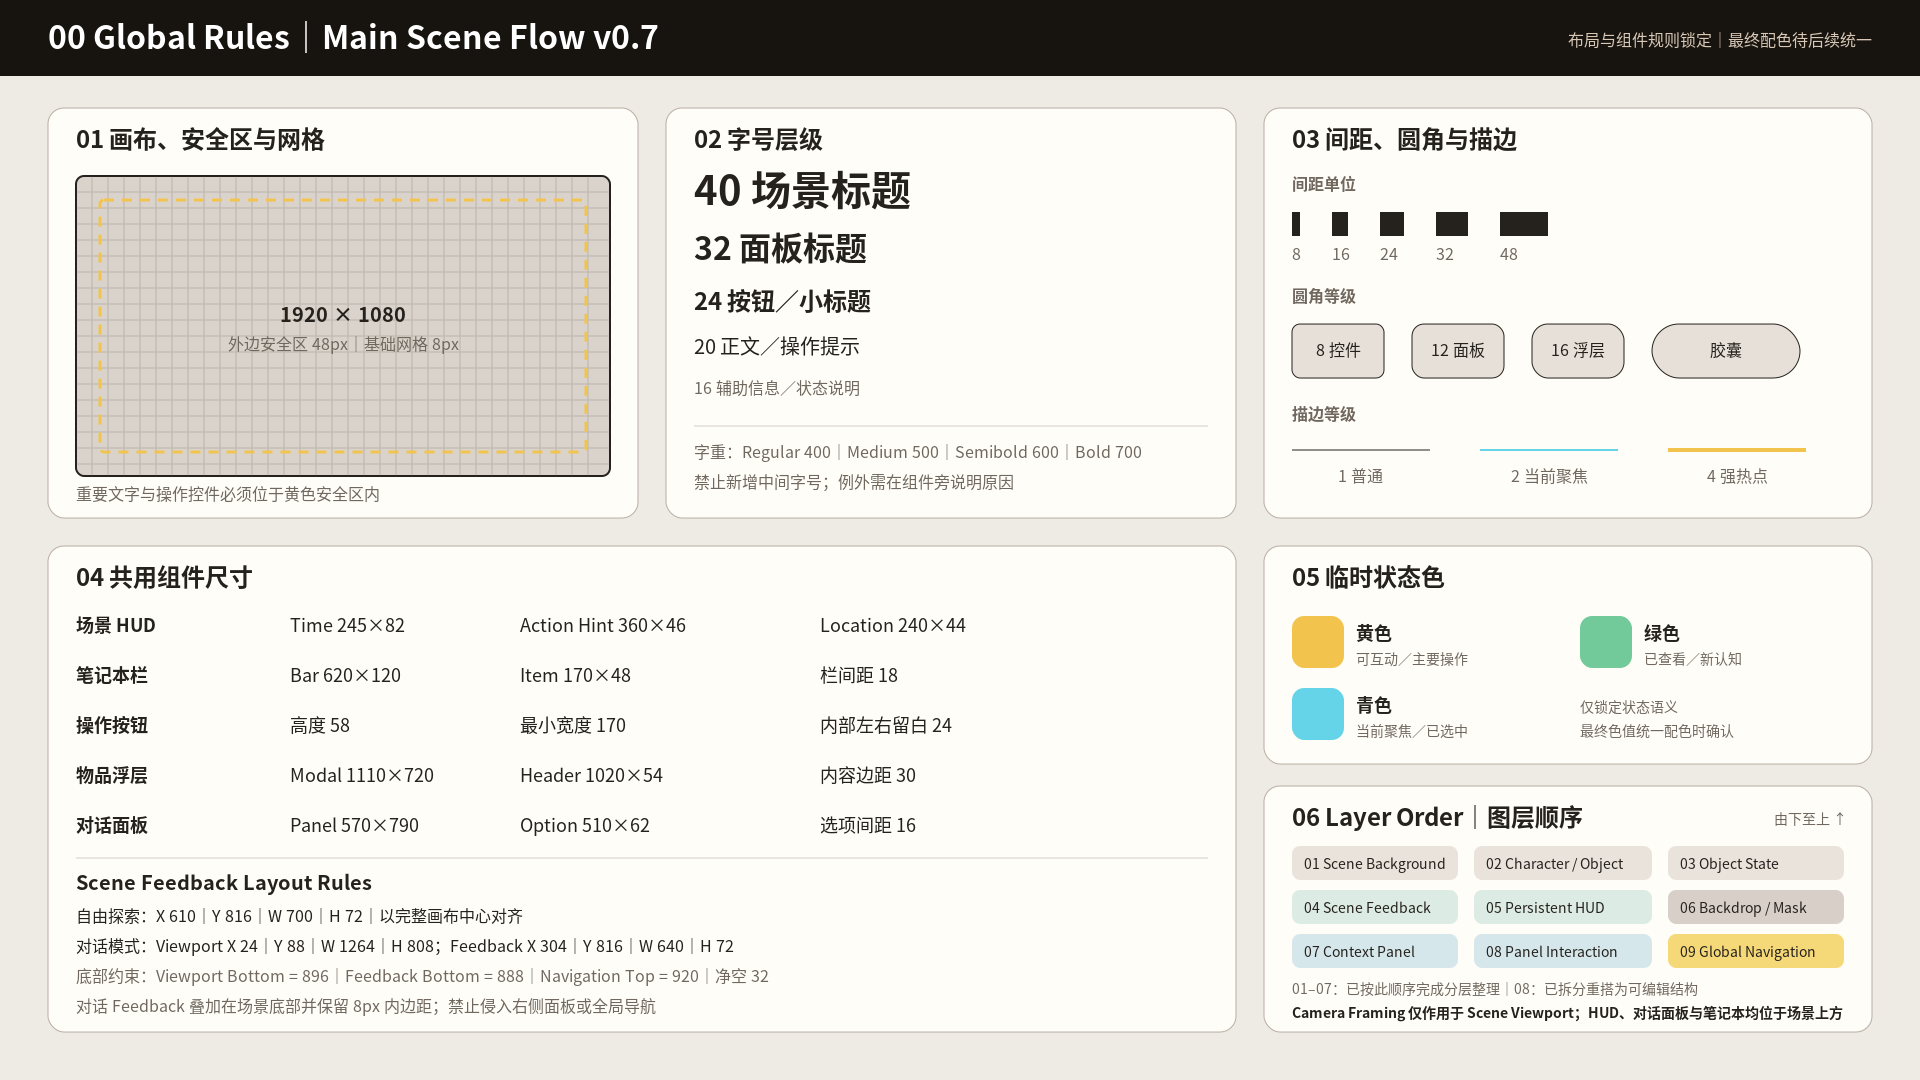
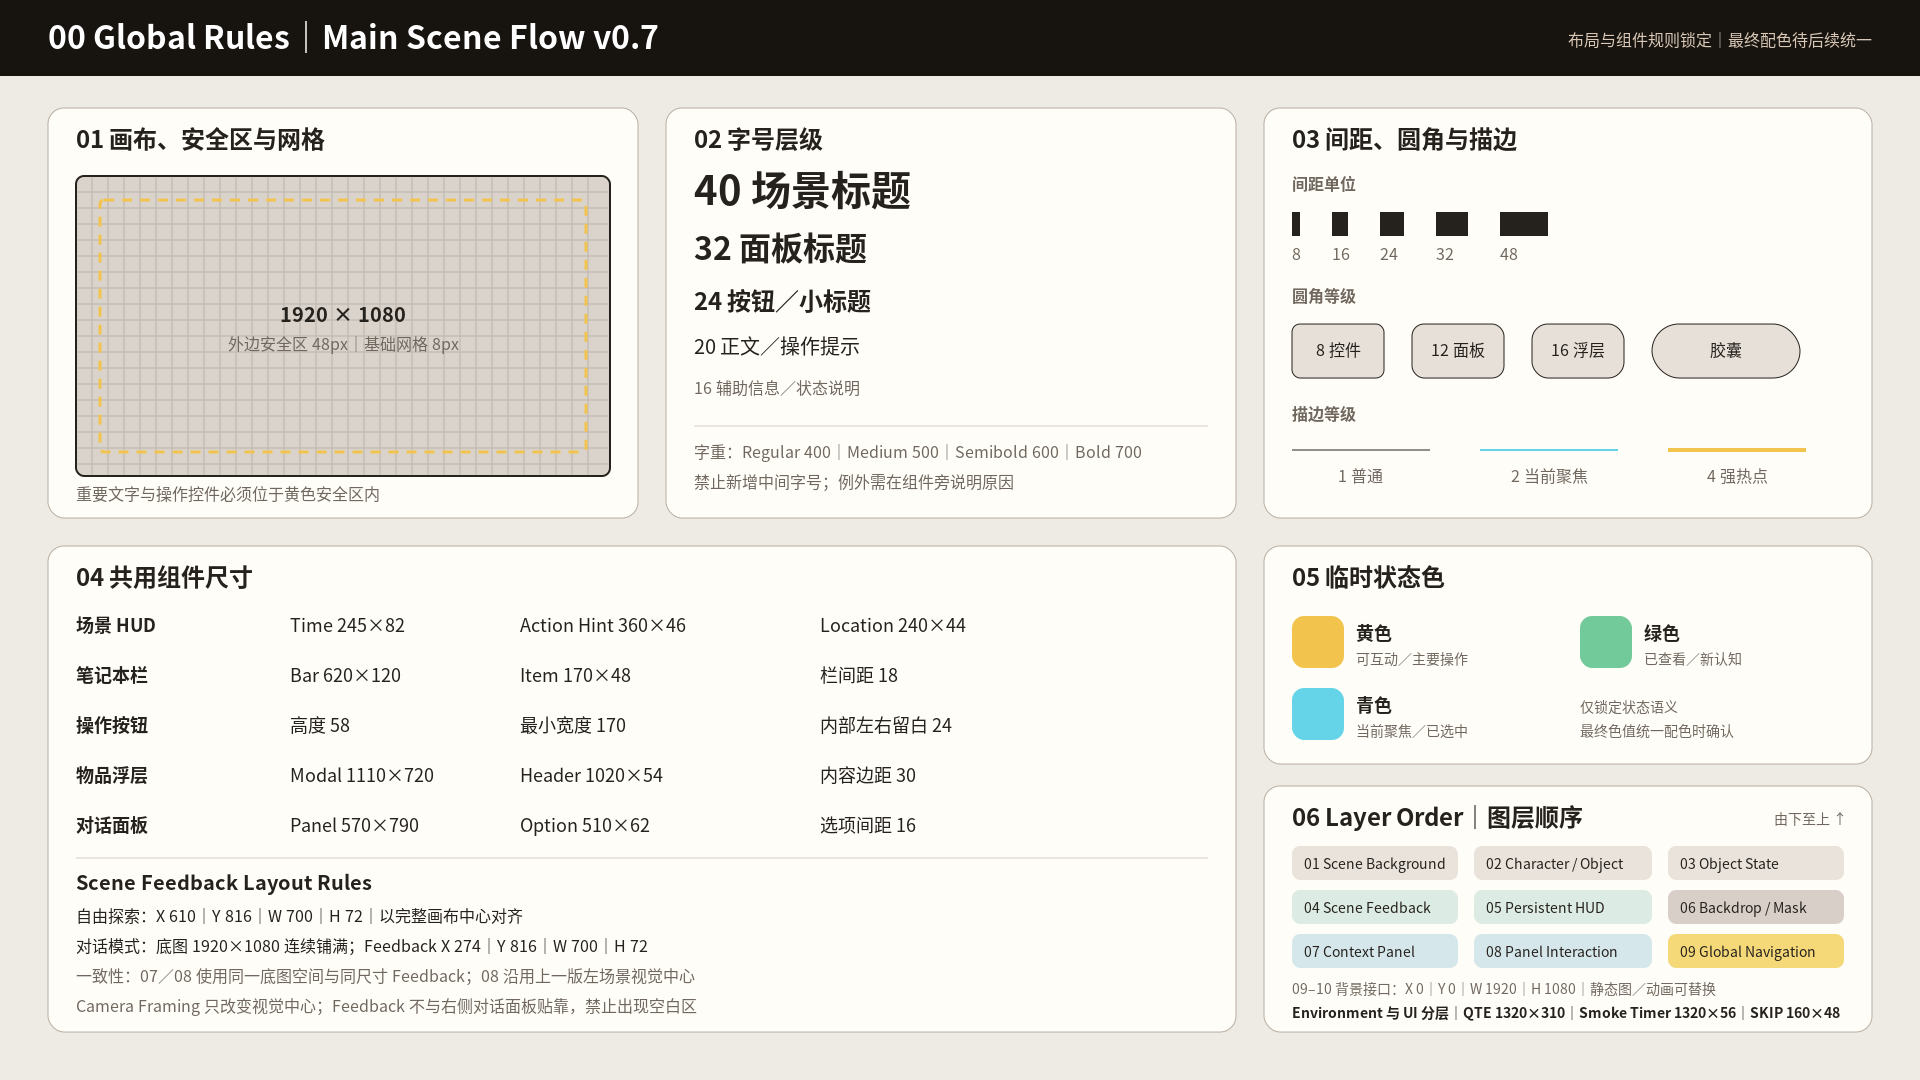
扩展主场景点烟放松流程与场景资源接口

Changed region(s): [[0.0312, 0.8556, 0.4062, 0.9472], [0.6875, 0.8861, 0.9688, 0.9472]]

diff --git a/docs/UI/main-scene/v0.7/global-rules.md b/docs/UI/main-scene/v0.7/global-rules.md
@@ -52,24 +52,29 @@
 | Object / Header | 1020 × 54px |
 | Dialogue / Panel | 570 × 790px |
 | Dialogue / Option | 510 × 62px，选项间距 16px |
+| Smoking QTE / Panel | 1320 × 310px |
+| Smoking QTE / Track | 1080 × 36px |
+| Smoking QTE / Target | 默认 216 × 36px，占轨道 20%（允许 18%–22%） |
+| Smoking / Timer | 1320 × 56px |
+| SKIP | 160 × 48px |
 
 单张页面不得自行缩放同名组件；需要变化时应先更新全局规范。
 
 ### 4.1 Scene Feedback Layout Rules
 
-| 状态 | Scene Viewport | Feedback X | Feedback Y | Feedback W | Feedback H | 对齐基准 |
+| 状态 | Scene Background | Feedback X | Feedback Y | Feedback W | Feedback H | 对齐基准 |
 |---|---|---:|---:|---:|---:|---|
-| 07 自由探索 / After Clue | 全画布 | 610 | 816 | 700 | 72 | 完整画布中心 |
-| 08 对话模式 | `X24 / Y88 / W1264 / H808` | 304 | 816 | 640 | 72 | 左侧 `Scene Viewport` 中心 |
+| 07 自由探索 / After Clue | `1920 × 1080` 全画布 | 610 | 816 | 700 | 72 | 完整画布中心 |
+| 08 对话模式 | `1920 × 1080` 全画布 | 274 | 816 | 700 | 72 | 上一版左场景视觉中心 |
 
 约束规则：
 
-- 对话模式采用用户手动调整后的场景尺寸：`Scene Viewport` 左上角为 `X=24 / Y=88`，宽高为 `1264 × 808px`，可见底边为 `Y=896`。
-- 08 Feedback 叠加于场景底部，底边为 `Y=888`，与 `Scene Viewport` 底边保留 `8px` 内边距。
-- `Global Navigation` 顶边为 `Y=920`，Feedback 与导航之间保留 `32px` 垂直净空。
-- 无侧边面板时以完整画布中心对齐；打开对话面板时以左侧 `Scene Viewport` 为布局基准。
-- 禁止始终使用 1920px 画布中心、手动拉伸 Feedback，或覆盖人物面部、对话选项及全局导航。
-- 普通场景最大宽度为 `700px`；对话场景固定宽度为 `640px`。
+- 07 与 08 必须使用同一套 `1920 × 1080` 场景空间，底图连续铺满画布；对话面板、HUD 与导航叠加在底图上方，未被面板覆盖的区域不得留白。
+- 08 仅通过底图内部的 Camera Framing 调整人物视觉中心，不改变 Scene Background 的画布尺寸和边界。
+- 07 与 08 的 Scene Feedback 使用同一尺寸：`W=700 / H=72`，避免状态切换时产生缩放跳变；位置按各自视觉中心分别对齐。
+- 08 Feedback 中心点沿用上一版左侧场景视觉中心 `X=624`，因此左边界为 `X=274`；右边界为 `X=974`，与 `X=1310` 的 Dialogue Panel 保留 `336px` 水平间距。
+- `Global Navigation` 顶边为 `Y=920`，Feedback 底边为 `Y=888`，两者保留 `32px` 垂直净空。
+- 禁止为适应当前视觉中心缩小底图或 Feedback，也禁止出现空白区、覆盖人物面部、对话选项及全局导航。
 
 ## 5. 临时状态色
 
@@ -108,7 +113,7 @@
 08_D104_Option_Unlocked
 ├─ 01_Scene_Viewport
 │  ├─ Scene_Background
-│  │  └─ Left_Scene_Camera_Framing
+│  │  └─ Dialogue_Scene_Camera_Framing
 │  └─ Character_Relationship
 ├─ 02_Persistent_HUD
 │  ├─ Screen_Title
@@ -125,13 +130,47 @@
    └─ Notebook_Bar
 ```
 
-08 已完成拆分重搭：场景位于独立裁切区域，标题 HUD、时间、操作提示、地点、对话面板和笔记本均为场景上方的独立可编辑图层。原 Camera Framing 与人物关系保持不变，顶部 HUD 遮挡问题已修复。
+08 已完成拆分重搭：场景使用完整 `1920 × 1080` 背景，标题 HUD、时间、操作提示、地点、对话面板和笔记本均为场景上方的独立可编辑图层。Camera Framing 只调整视觉中心，不改变底图边界。
 
-## 8. 当前执行状态
+## 8. 09–10 点烟节点图层规则
+
+```text
+09_Smoking_Relaxation_QTE
+├─ 01_QTE_Background_Viewport
+│  ├─ Environment_Background
+│  └─ Environment_Animation
+├─ 02_Backdrop_Mask
+├─ 03_Narrative_Prompt
+├─ 04_QTE_Track
+├─ 05_Smoke_Timer
+└─ 06_Global_Navigation / SKIP
+
+10_Smoking_FirstPerson_Street
+├─ 01_First_Person_Street_Viewport
+│  ├─ Environment_Background
+│  ├─ Environment_Animation
+│  └─ FirstPerson_Foreground
+├─ 02_Inner_Monologue
+├─ 03_Smoke_Timer
+└─ 04_Global_Navigation / SKIP
+```
+
+执行原则：
+
+- 09 的 QTE 是单次、低压力操作；失败不得使用红色惩罚反馈，也不得要求重试。
+- 09、10 的烟条使用同一位置和尺寸，避免成功切换时跳动。
+- 09 的 `QTE_Background_Viewport` 与 10 的 `First_Person_Street_Viewport` 均固定为 `X0 / Y0 / W1920 / H1080`，作为可替换背景接口。
+- `Environment_Background` 接收按时间加载的静态图；`Environment_Animation` 接收视频、序列帧或 Timeline 动画，二者不得包含 QTE、烟条、独白或 SKIP。
+- 10 的 `FirstPerson_Foreground` 独立承载手部、香烟和烟雾，替换环境动画时不得重做前景 UI。
+- 10 的第一人称街景必须铺满画布；手部、香烟与烟雾属于主观视角前景层。
+- `SKIP` 始终位于右上安全区内，层级高于 QTE、独白和场景。
+
+## 9. 当前执行状态
 
 - [x] 创建并锁定 `00_Global_Rules`
 - [x] 按规则整理 01–07 图层
 - [x] 拆分重搭 08 合成 UI
 - [x] 修复 08 场景覆盖 HUD 的问题
+- [x] 新增 09 点烟 QTE 与 10 第一人称街景图层规则
 - [ ] 逐张进行内容、尺寸与文案精修
-- [ ] 八张完成后统一配色
+- [ ] 十张完成后统一配色

diff --git a/changelog.md b/changelog.md
@@ -2,6 +2,22 @@
 
 本文件用于记录永安街游戏 UI/UX 设计版本变化，最新版本位于最上方。
 
+## 主场景 v0.7 点烟放松流程扩展 — 2026-09-12
+
+### 新增
+
+- 新增 `09_Smoking_Relaxation_QTE`，在温柔／理智线对话收束后提供一次低压力 timing QTE
+- 新增 `10_Smoking_FirstPerson_Street`，作为点烟成功后的 3–5 秒第一人称街景叙事奖励
+- 补齐 `08 → Route Check → 09 → 10 → Observation` 条件过渡，失败与跳过均无惩罚
+- 新增 09／10 的 QTE 轨道、目标区、烟条与 SKIP 组件规范
+- 新增 09／10 全屏可替换背景接口，支持按 `scene_id / time_state / weather` 接入静态图或动画
+- 将环境背景、环境动画、第一人称前景与 UI 组件拆分为独立图层，后续替换风景时无需重做 QTE、烟条、独白和 SKIP
+
+### 调整
+
+- 将 v0.7 Main Scene Flow 从八个状态扩展为十个状态
+- 将十状态总览图、全局规范、设计说明与 README 索引同步更新
+
 ## 主场景 v0.7 全局规范与图层重构 — 2026-09-11
 
 ### 新增
@@ -15,8 +31,9 @@
 - 按 Layer Order 将 01–07 重构为可编辑分层 Frame
 - 将 08 拆分为独立 Scene Viewport、Persistent HUD、Scene Feedback、Dialogue Panel 和 Global Navigation
 - 保留 08 既定人物 Camera Framing，使场景裁切仅作用于 Scene Viewport
-- 新增 Scene Feedback Layout Rules：07 按完整画布居中，08 按左侧 Scene Viewport 居中，并统一 32px 底部净空
-- 将 08 Scene Viewport 按手动调整结果更新为 `X24 / Y88 / W1264 / H808`，反馈条叠加于场景底部并保留 8px 内边距
+- 新增 Scene Feedback Layout Rules：07 与 08 保持同尺寸，位置分别按完整画布中心和左场景视觉中心对齐，并统一 32px 底部净空
+- 将 08 Scene Background 调整为与 07 一致的 `1920 × 1080` 连续场景空间，仅通过 Camera Framing 保留当前人物视觉中心
+- 将 08 Scene Feedback 保持为与 07 相同的 `700 × 72`，位置调整为 `X274 / Y816`，沿用上一版左场景视觉中心并远离对话面板
 - 更新八状态总览图、v0.7 设计说明、修改清单和 README 索引
 
 ### 修复

diff --git a/README.md b/README.md
@@ -38,7 +38,7 @@ yongan-street-ui-ux-design/
 ## 历史版本
 
 - 主场景 v0.6：[设计文档](docs/UI/main-scene/v0.6.md) · [Figma 页面树](docs/UI/main-scene/v0.6/figma-page-tree.md) · [Figma UI 规格](docs/UI/main-scene/v0.6/figma-ui-spec.md) · [Round 01 评审](docs/UI/main-scene/v0.6/reviews/2026-09-10-round-01.md) · [线框图](assets/wireframe/main-scene/v0.6.png)
-- 主场景 v0.7：[设计文档](docs/UI/main-scene/v0.7.md) · [全局规范](docs/UI/main-scene/v0.7/global-rules.md) · [规范板预览](assets/wireframe/main-scene/v0.7-global-rules.png) · [Round 01 修改清单](docs/UI/main-scene/v0.7/round-01-action-list.md) · [八状态线框图](assets/wireframe/main-scene/v0.7.png)
+- 主场景 v0.7：[设计文档](docs/UI/main-scene/v0.7.md) · [全局规范](docs/UI/main-scene/v0.7/global-rules.md) · [规范板预览](assets/wireframe/main-scene/v0.7-global-rules.png) · [Round 01 修改清单](docs/UI/main-scene/v0.7/round-01-action-list.md) · [十状态线框图](assets/wireframe/main-scene/v0.7.png)
 
 ## 目录说明
 
@@ -67,6 +67,7 @@ yongan-street-ui-ux-design/
 - [x] 创建并锁定 v0.7 `00_Global_Rules`
 - [x] 按 Layer Order 拆分整理 01–07
 - [x] 拆分重搭 08 并修复场景覆盖 HUD
+- [x] 新增 09 点烟 QTE 与 10 第一人称街景，补齐 08→09→10 条件过渡
 - [ ] 确认 v0.7 修改清单中的系统边界与触发规则
 - [ ] 完成设计评审
 
